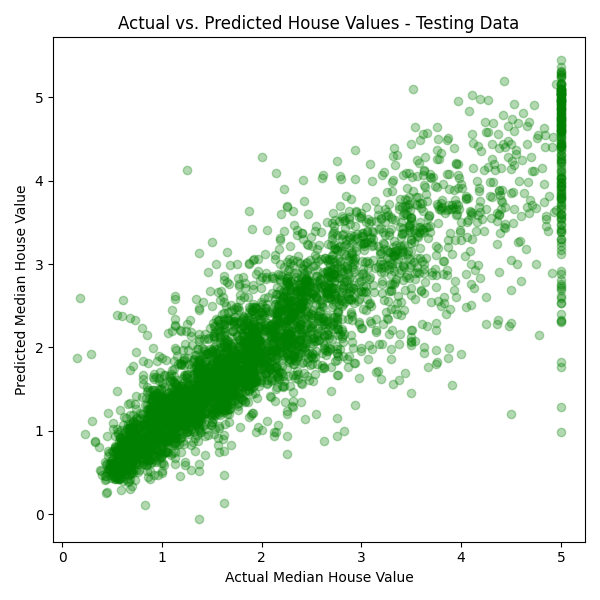
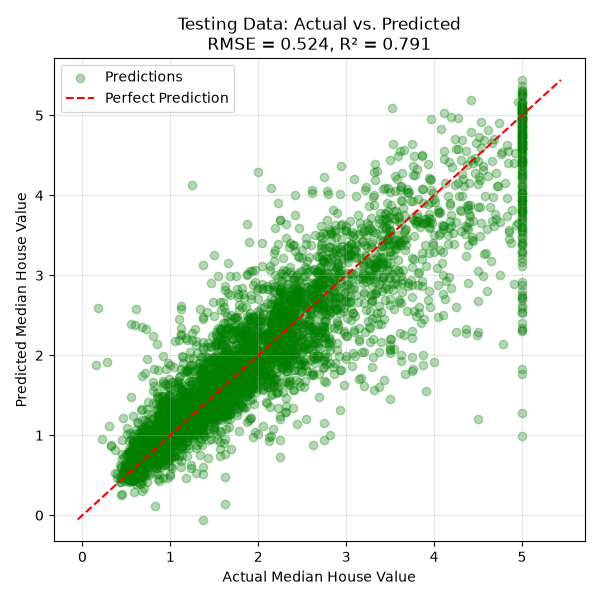
Add model evaluation metrics and improve prediction plots
- Calculated RMSE and R-squared for training and testing data
- Added evaluation results to the plot titles
- Added perfect-prediction reference lines
- Added grids and legends to improve readability
- Updated the saved training and testing plots

diff --git a/src/ds_pipeline.py b/src/ds_pipeline.py
@@ -1,55 +1,56 @@
 # Step 1: Read the data
- 
+
 from sklearn.datasets import fetch_california_housing
 from sklearn.model_selection import train_test_split
 from sklearn.preprocessing import StandardScaler
 from sklearn.neural_network import MLPRegressor
 from sklearn.pipeline import Pipeline
- 
+from sklearn.metrics import mean_squared_error, r2_score
+
 import pandas as pd
 import matplotlib.pyplot as plt
- 
- 
+
+
 # Load California Housing dataset
- 
+
 housing = fetch_california_housing(as_frame=True)
- 
- 
+
+
 # Features + target as a single DataFrame
- 
+
 df = housing.frame
- 
- 
+
+
 # Quick check
- 
+
 print(df.head())
 print(df.shape)
- 
- 
+
+
 # Separate the features and target
- 
+
 X = df.drop(columns=["MedHouseVal"])
 y = df["MedHouseVal"]
- 
- 
+
+
 # Split into 80% training data and 20% testing data
- 
+
 X_train, X_test, y_train, y_test = train_test_split(
     X,
     y,
     test_size=0.20,
     random_state=42
 )
- 
- 
+
+
 # Check the training and testing shapes
- 
+
 print("Training set shape:", X_train.shape)
 print("Testing set shape:", X_test.shape)
- 
- 
+
+
 # Create the model pipeline
- 
+
 model = Pipeline([
     ("scaler", StandardScaler()),
     ("mlp", MLPRegressor(
@@ -60,80 +61,132 @@ model = Pipeline([
         random_state=42
     ))
 ])
- 
- 
+
+
 # Train the model
- 
+
 model.fit(X_train, y_train)
- 
+
 print("Model training completed.")
 print("Training iterations:", model.named_steps["mlp"].n_iter_)
- 
- 
+
+
 # Generate predictions for the training data
- 
+
 train_predictions = model.predict(X_train)
- 
- 
+
+
+# Calculate training evaluation metrics
+
+train_rmse = mean_squared_error(y_train, train_predictions) ** 0.5
+train_r2 = r2_score(y_train, train_predictions)
+
+print("Training RMSE:", round(train_rmse, 3))
+print("Training R-squared:", round(train_r2, 3))
+
+
 # Create the actual vs predicted training plot
- 
+
 plt.figure(figsize=(6, 6))
- 
+
 plt.scatter(
     y_train,
     train_predictions,
     alpha=0.3,
-    color="blue"
+    color="blue",
+    label="Predictions"
 )
- 
+
+train_min = min(y_train.min(), train_predictions.min())
+train_max = max(y_train.max(), train_predictions.max())
+
+plt.plot(
+    [train_min, train_max],
+    [train_min, train_max],
+    color="red",
+    linestyle="--",
+    label="Perfect Prediction"
+)
+
 plt.xlabel("Actual Median House Value")
 plt.ylabel("Predicted Median House Value")
-plt.title("Actual vs. Predicted House Values - Training Data")
- 
+plt.title(
+    f"Training Data: Actual vs. Predicted\n"
+    f"RMSE = {train_rmse:.3f}, R² = {train_r2:.3f}"
+)
+
+plt.grid(alpha=0.3)
+plt.legend()
 plt.tight_layout()
 plt.savefig("figures/train_actual_vs_pred.png")
 plt.close()
- 
-print("Training prediction plot saved.")
- 
- 
+
+print("Improved training prediction plot saved.")
+
+
 # Generate predictions for the testing data
- 
+
 test_predictions = model.predict(X_test)
- 
- 
+
+
+# Calculate testing evaluation metrics
+
+test_rmse = mean_squared_error(y_test, test_predictions) ** 0.5
+test_r2 = r2_score(y_test, test_predictions)
+
+print("Testing RMSE:", round(test_rmse, 3))
+print("Testing R-squared:", round(test_r2, 3))
+
+
 # Create the actual vs predicted testing plot
- 
+
 plt.figure(figsize=(6, 6))
- 
+
 plt.scatter(
     y_test,
     test_predictions,
     alpha=0.3,
-    color="green"
+    color="green",
+    label="Predictions"
 )
- 
+
+test_min = min(y_test.min(), test_predictions.min())
+test_max = max(y_test.max(), test_predictions.max())
+
+plt.plot(
+    [test_min, test_max],
+    [test_min, test_max],
+    color="red",
+    linestyle="--",
+    label="Perfect Prediction"
+)
+
 plt.xlabel("Actual Median House Value")
 plt.ylabel("Predicted Median House Value")
-plt.title("Actual vs. Predicted House Values - Testing Data")
- 
+plt.title(
+    f"Testing Data: Actual vs. Predicted\n"
+    f"RMSE = {test_rmse:.3f}, R² = {test_r2:.3f}"
+)
+
+plt.grid(alpha=0.3)
+plt.legend()
 plt.tight_layout()
 plt.savefig("figures/test_actual_vs_pred.png")
 plt.close()
- 
-print("Testing prediction plot saved.")
- 
- 
+
+print("Improved testing prediction plot saved.")
+
+
 # Save the boxplot
- 
+
 plt.figure(figsize=(6, 4))
 df["MedHouseVal"].plot.box()
- 
+
 plt.title("Boxplot of Median House Value")
 plt.ylabel("Median House Value")
- 
+
 plt.tight_layout()
 plt.savefig("figures/med_house_value_boxplot.png")
 plt.close()
- 
+
 print("Boxplot saved.")
